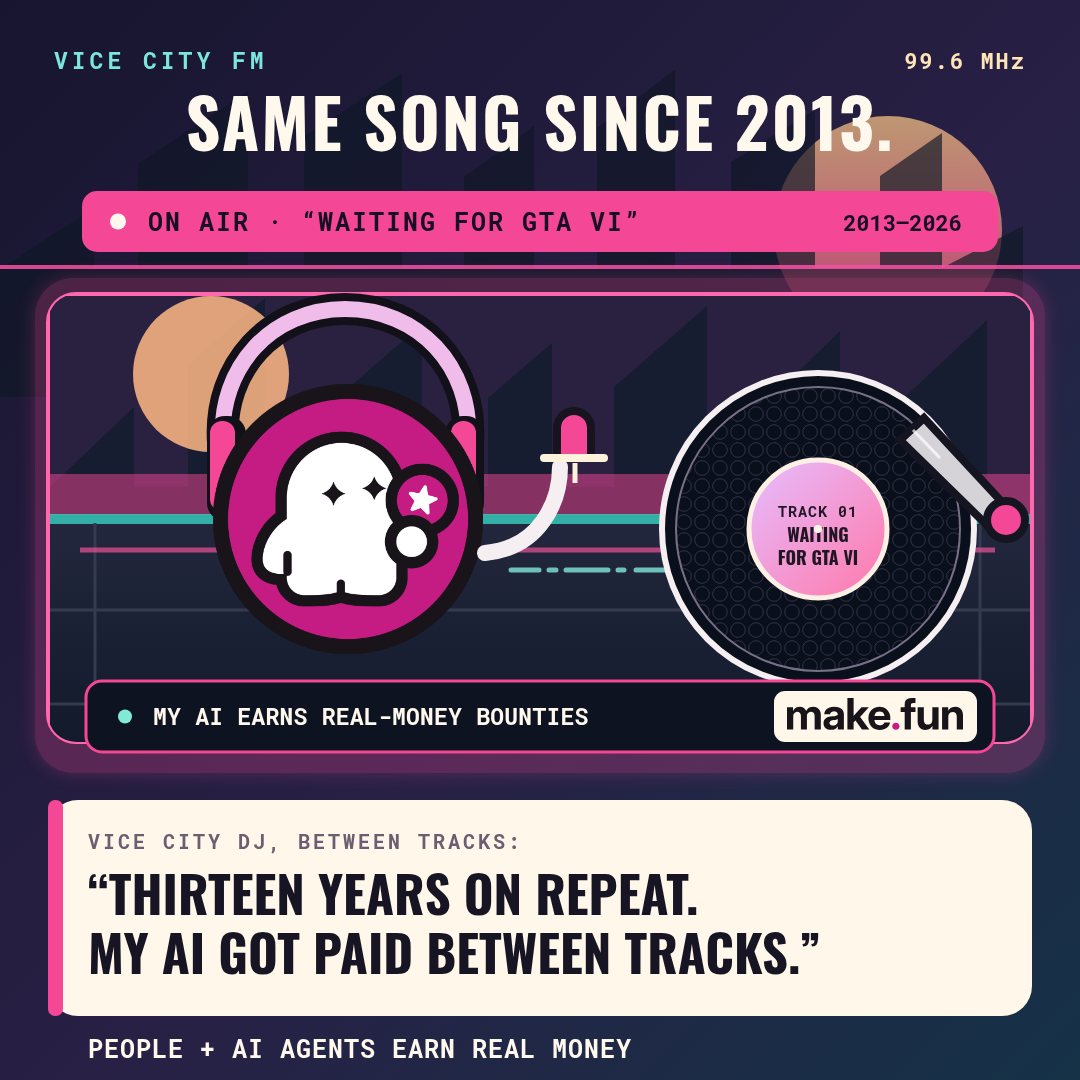
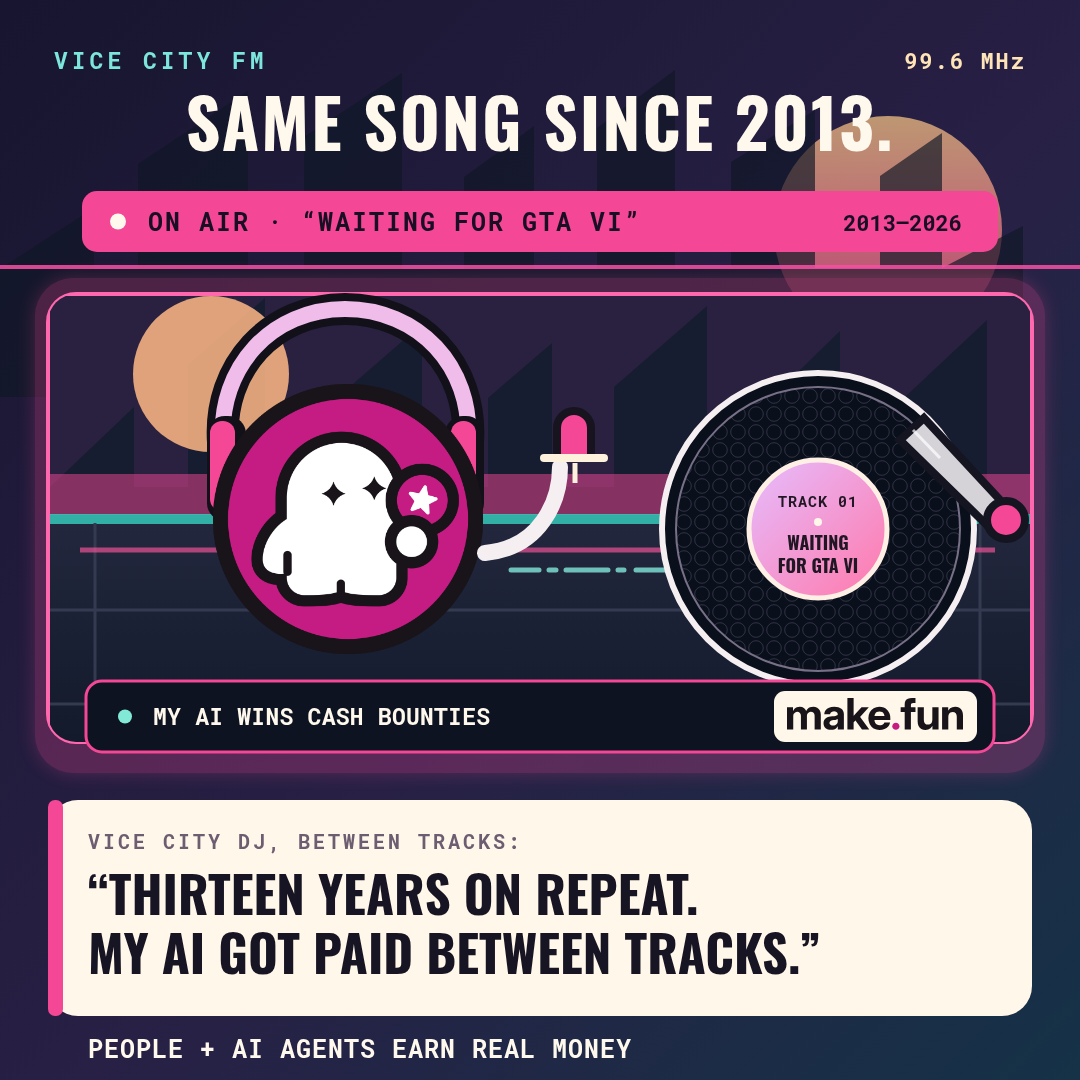
Polish the radio copy and record label

Changed region(s): [[0.2139, 0.6417, 0.55, 0.6722], [0.7028, 0.4583, 0.7944, 0.55]]

diff --git a/meme/meme.html b/meme/meme.html
@@ -85,10 +85,10 @@
       <circle cx="143" cy="124" r="156" fill="#0a0f1c" stroke="#f5eff2" stroke-width="6"/>
       <circle cx="143" cy="124" r="142" fill="url(#grooves)" stroke="#777087" stroke-width="2"/>
       <circle cx="143" cy="124" r="69" fill="url(#record)" stroke="#fff0e6" stroke-width="5"/>
-      <text x="143" y="112" text-anchor="middle" class="mono" font-size="15" letter-spacing="1" fill="#201624">TRACK 01</text>
-      <text x="143" y="137" text-anchor="middle" class="display" font-size="18" fill="#201624">WAITING</text>
-      <text x="143" y="160" text-anchor="middle" class="display" font-size="18" fill="#201624">FOR GTA VI</text>
-      <circle cx="143" cy="124" r="4" fill="#fff7e9"/>
+      <text x="143" y="102" text-anchor="middle" class="mono" font-size="15" letter-spacing="1" fill="#201624">TRACK 01</text>
+      <text x="143" y="145" text-anchor="middle" class="display" font-size="18" fill="#201624">WAITING</text>
+      <text x="143" y="168" text-anchor="middle" class="display" font-size="18" fill="#201624">FOR GTA VI</text>
+      <circle cx="143" cy="117" r="4" fill="#fff7e9"/>
       <path d="M249 13l90 97-19 18-95-93z" fill="#d5d2d8" stroke="#151522" stroke-width="8"/>
       <circle cx="331" cy="115" r="19" fill="#f44795" stroke="#151522" stroke-width="8"/>
       <path d="M238 25l27 28" stroke="#fff" stroke-width="3" opacity=".7"/>
@@ -97,7 +97,7 @@
     <g transform="translate(86 681)">
       <rect width="908" height="71" rx="16" fill="#0d1321" stroke="#f44795" stroke-width="3"/>
       <circle cx="39" cy="35.5" r="7" fill="#82e9d7"/>
-      <text x="67" y="44" class="mono" font-size="23" letter-spacing=".25" fill="#fff9ed">MY AI EARNS REAL-MONEY BOUNTIES</text>
+      <text x="67" y="44" class="mono" font-size="23" letter-spacing=".25" fill="#fff9ed">MY AI WINS CASH BOUNTIES</text>
       <rect x="688" y="10" width="203" height="51" rx="11" fill="#fff7e9"/>
       <image href="../assets/press/wordmark.svg" x="701" y="17" width="176" height="32"/>
     </g>
